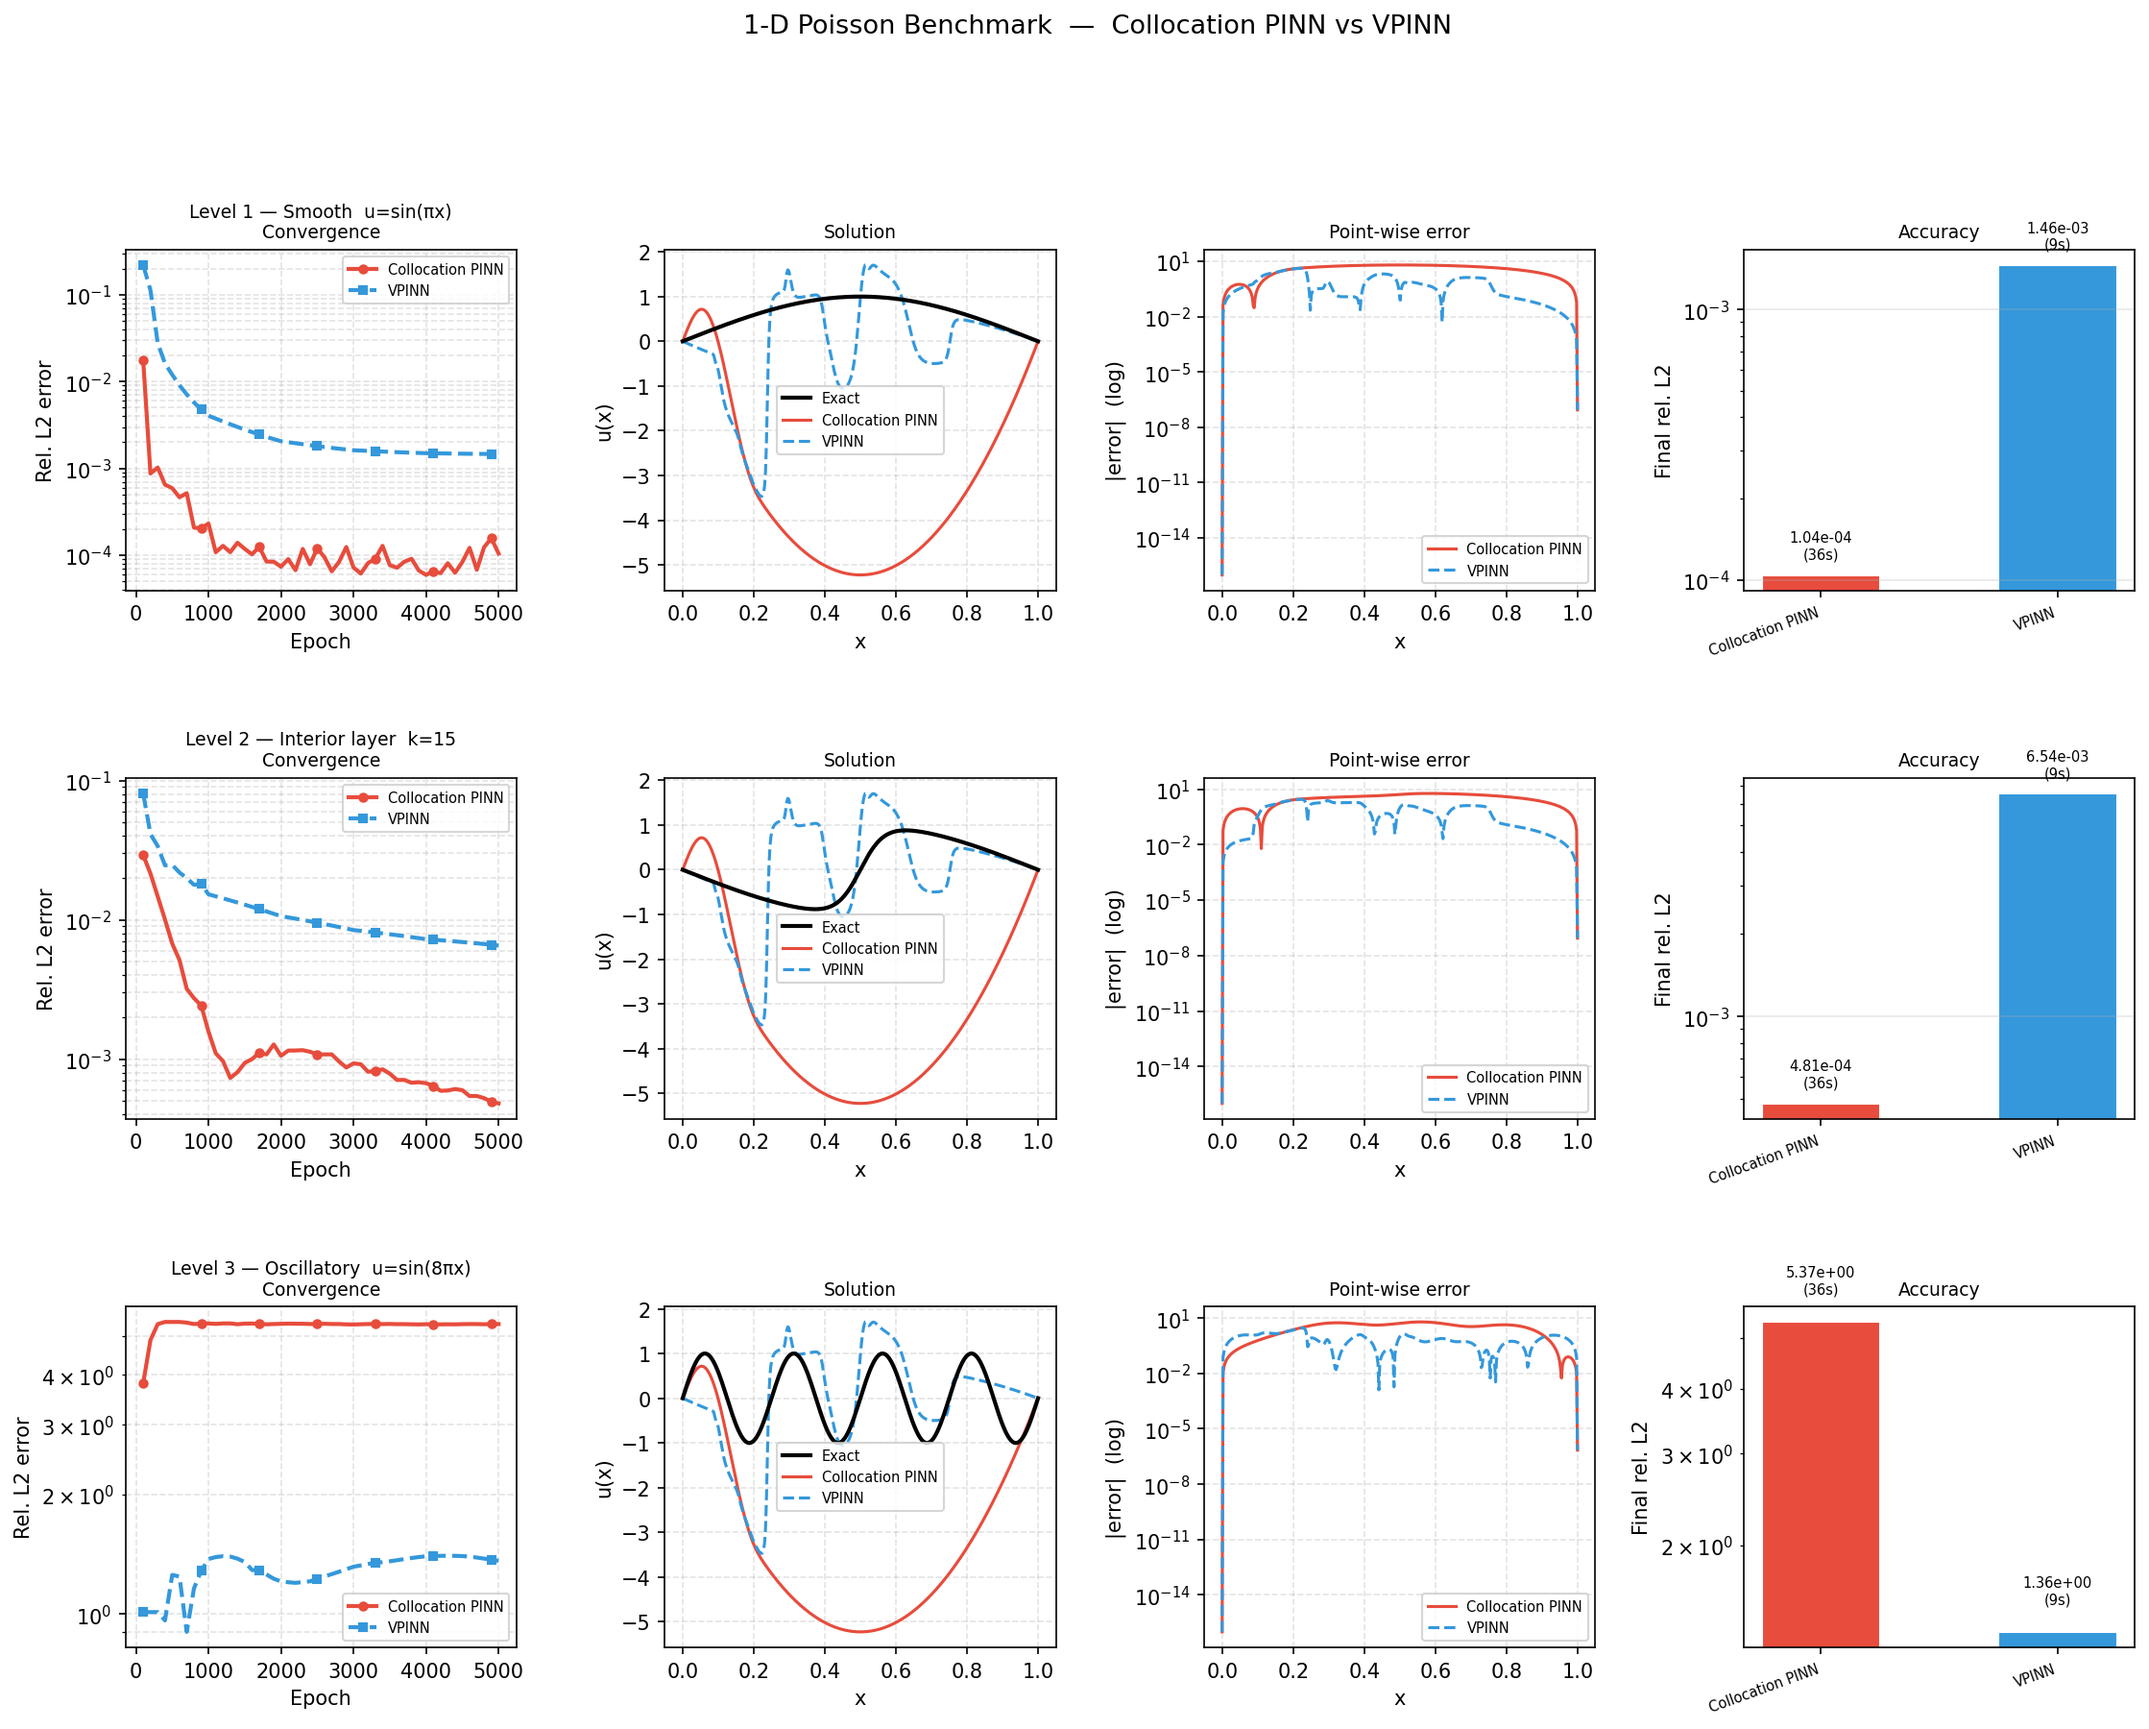
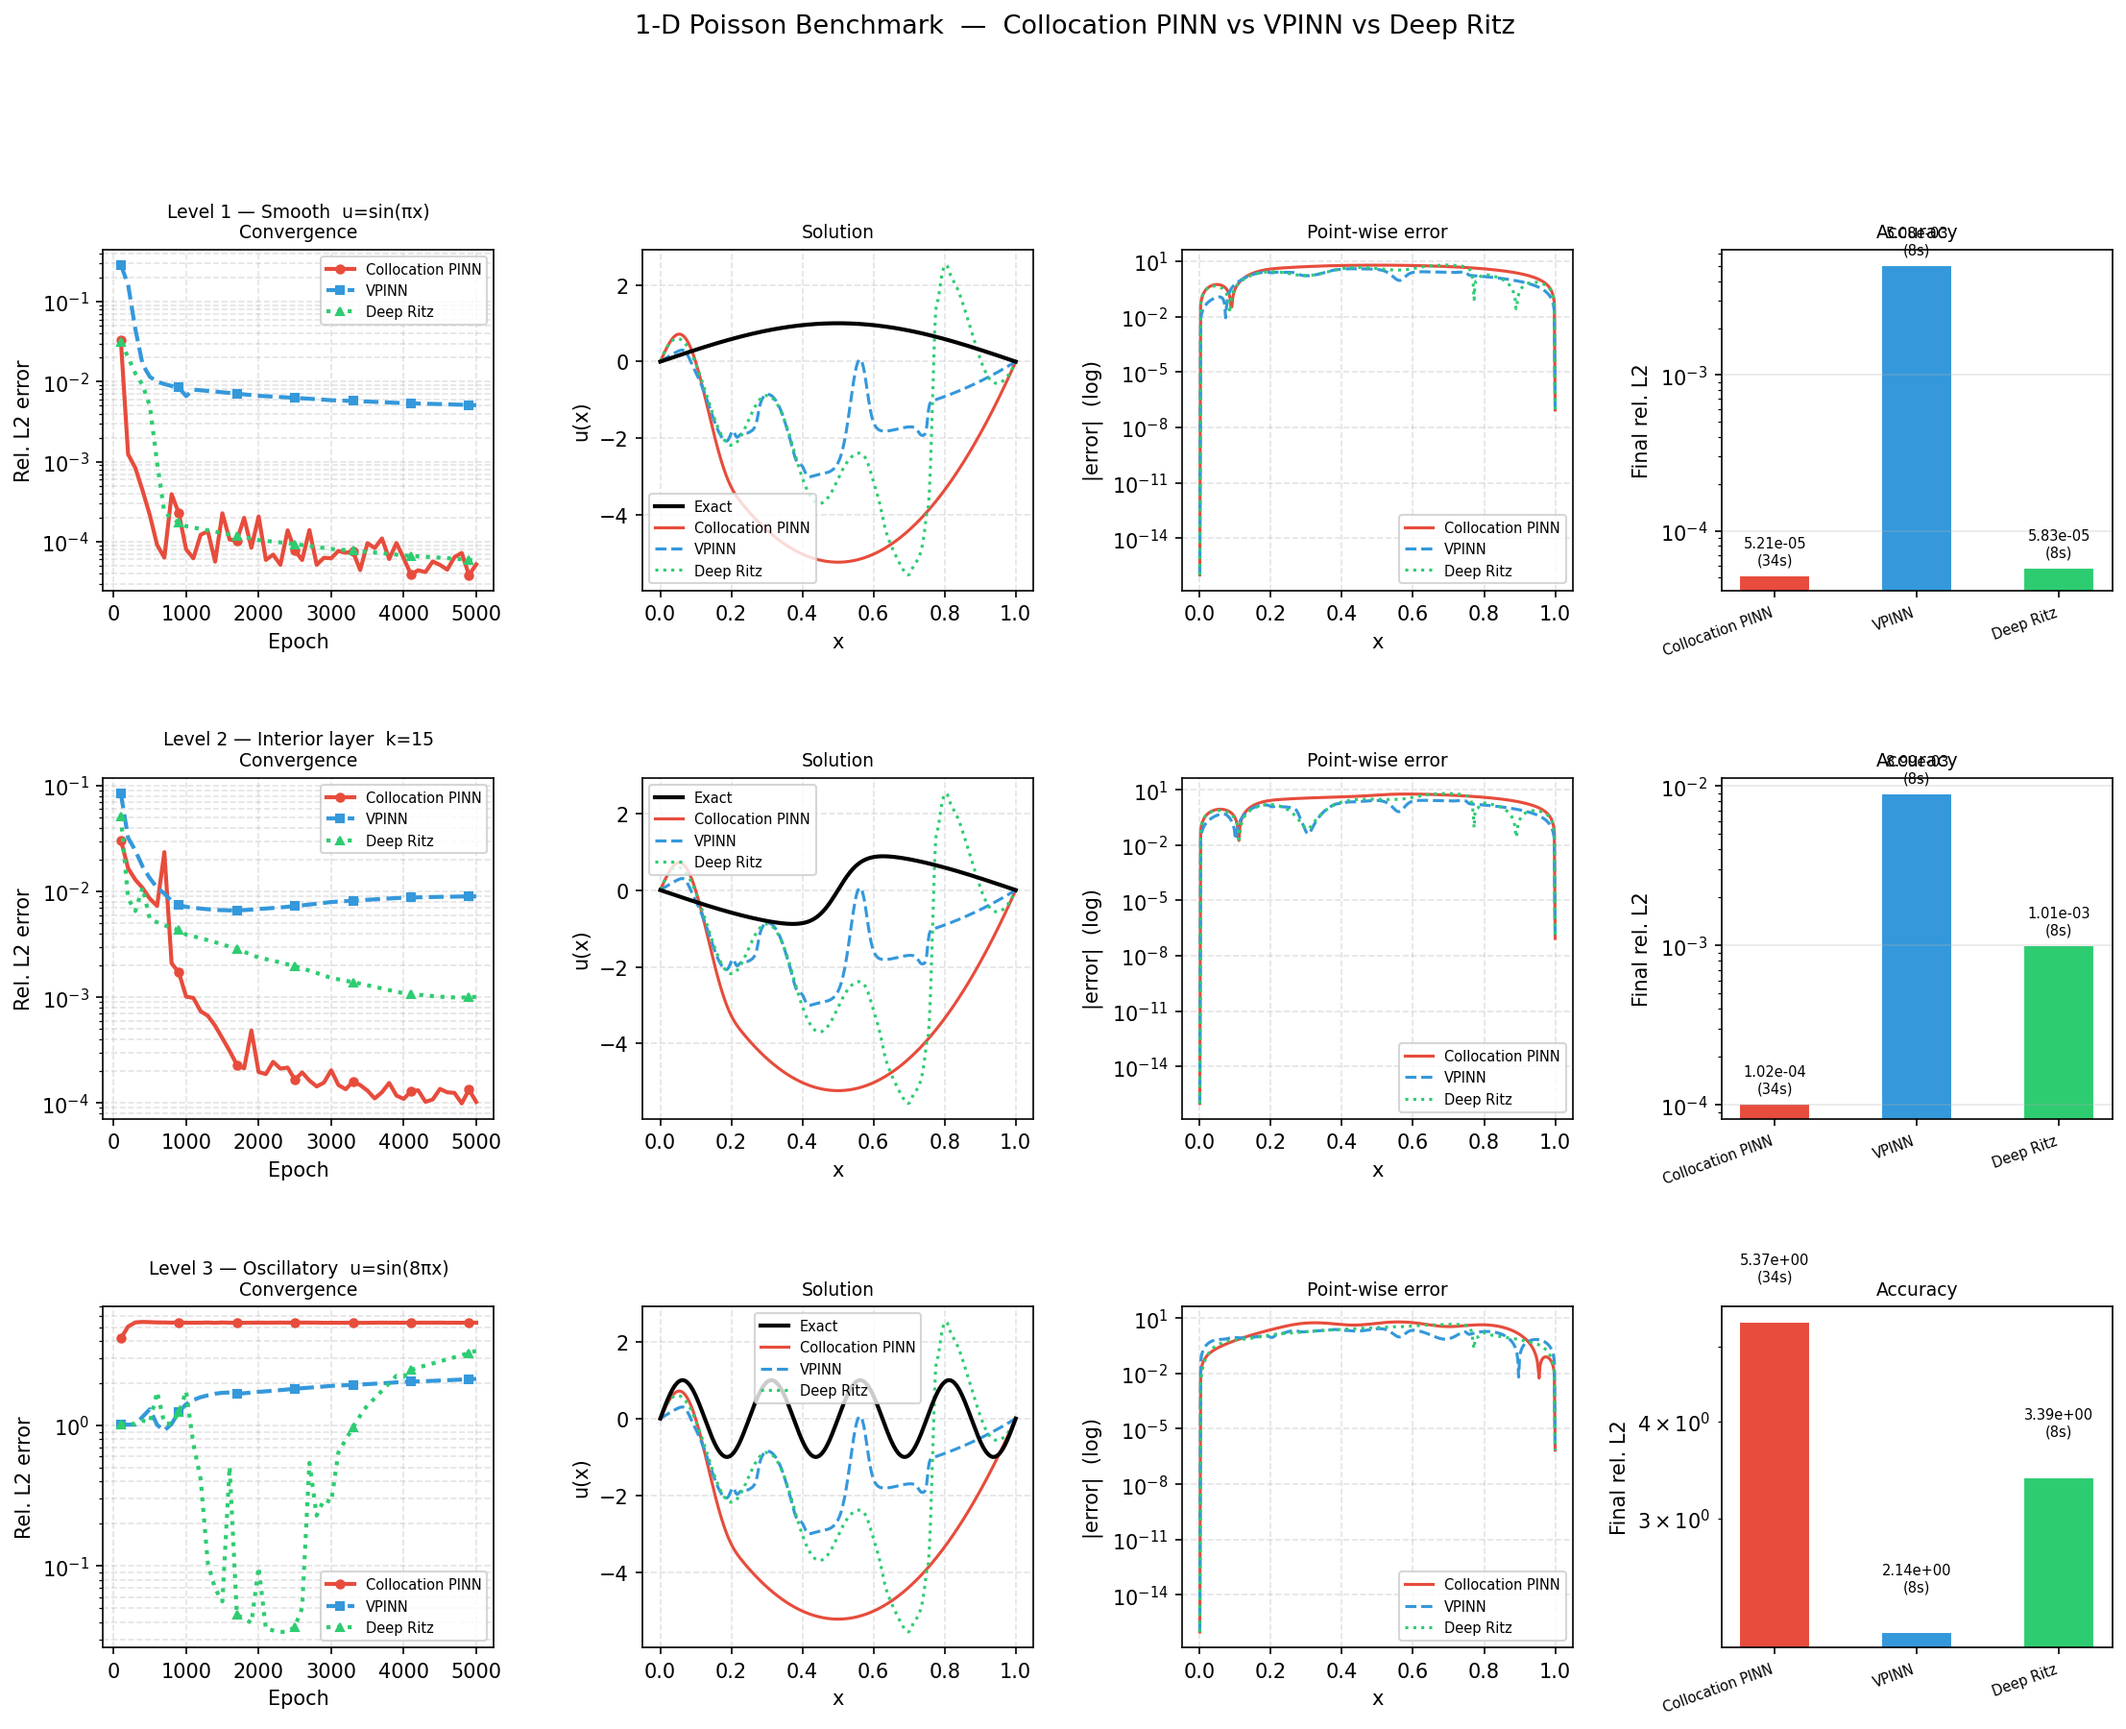
Add Deep Ritz solver and include it in 1D Poisson benchmark
Implements the energy minimisation formulation: E[u] = ½∫|∇u|²dx - ∫f·u dx.
Only first-order autograd needed (same cost as VPINN, 4× faster than collocation).
Uses Gauss-Legendre quadrature for integration; mollifier enforces Dirichlet BC.

Results (5000 epochs):
  Smooth:  Deep Ritz L2=5.8e-5 — matches Collocation (5.2e-5) within 12%, 4× faster
  Layer:   Deep Ritz L2=1.0e-3 — 9× better than VPINN, 10× slower than Collocation
  Oscillatory: all three methods fail (spectral bias); VPINN least wrong

Key finding: Deep Ritz achieves near-collocation accuracy at VPINN speed for smooth
and layer problems, making it the best accuracy/cost tradeoff for non-oscillatory PDEs.

https://claude.ai/code/session_011pScVsRRuE8kQ5UcZJCSPK

diff --git a/pde_solvers/solvers/deep_ritz.py b/pde_solvers/solvers/deep_ritz.py
@@ -1,0 +1,134 @@
+"""
+Deep Ritz Method
+================
+Minimises the energy functional of  -Δu = f  with zero Dirichlet BC:
+
+    E[u] = ½ ∫_Ω |∇u|² dx  -  ∫_Ω f·u dx
+
+The minimiser satisfies the Euler–Lagrange equation -Δu = f.
+Only first-order autograd is needed (same cost as VPINN).
+û = mollifier(x)·net(x) enforces the BC exactly.
+
+Integration: Gauss-Legendre quadrature.
+  1-D  domain [0,1]:      n_quad points mapped from [-1,1]
+  2-D  domain [-1,1]²:    tensor-product GL quadrature
+"""
+
+import time
+import numpy as np
+import torch
+from torch.autograd import Variable
+from numpy.polynomial.legendre import leggauss
+
+from ..network import FCNet
+
+
+class DeepRitz:
+
+    name = "Deep Ritz"
+
+    def __init__(self,
+                 n_quad:    int   = 50,
+                 activation: str  = 'tanh',
+                 lr:        float = 1e-3,
+                 step_size: int   = 1000,
+                 gamma:     float = 0.5):
+        self.n_quad    = n_quad
+        self.activation = activation
+        self.lr        = lr
+        self.step_size = step_size
+        self.gamma     = gamma
+        self.net       = None
+
+    # ── quadrature setup ─────────────────────────────────────────
+
+    def _setup_1d(self):
+        pts, wts = leggauss(self.n_quad)
+        xq = (pts + 1.0) / 2.0    # map [-1,1] → [0,1]
+        wq = wts / 2.0             # Jacobian of the mapping
+
+        self.x_quad = torch.tensor(xq[:, None], dtype=torch.float32)
+        self.w_quad = torch.tensor(wq,           dtype=torch.float32)
+
+    def _setup_2d(self):
+        pts, wts = leggauss(self.n_quad)
+        xx, yy   = np.meshgrid(pts, pts, indexing='ij')
+        wx, wy   = np.meshgrid(wts, wts, indexing='ij')
+
+        self.x_quad = torch.tensor(
+            np.stack([xx.flatten(), yy.flatten()], axis=1), dtype=torch.float32)
+        self.w_quad = torch.tensor((wx * wy).flatten(), dtype=torch.float32)
+
+    # ── public API ───────────────────────────────────────────────
+
+    def solve(self, problem, epochs: int = 5000,
+              log_every: int = 500) -> dict:
+
+        if problem.dim == 1:
+            self._setup_1d()
+        else:
+            self._setup_2d()
+
+        layers    = problem.default_layers()
+        net       = FCNet(layers, self.activation)
+        optimizer = torch.optim.Adam(net.parameters(), lr=self.lr)
+        scheduler = torch.optim.lr_scheduler.StepLR(
+            optimizer, step_size=self.step_size, gamma=self.gamma)
+
+        x_test, u_test = problem.test_grid()
+
+        with torch.no_grad():
+            f_quad = problem.source_f(self.x_quad).squeeze()   # (Nq,)
+
+        history = dict(epoch=[], loss_pde=[], l2_err=[], time=[])
+        t0 = time.time()
+
+        for epoch in range(1, epochs + 1):
+            net.train()
+
+            x_var = Variable(self.x_quad, requires_grad=True)
+            u_hat = problem.mollifier(x_var) * net(x_var)      # (Nq, 1)
+
+            u_grad = torch.autograd.grad(
+                u_hat, x_var, torch.ones_like(u_hat), create_graph=True)[0]
+
+            w = self.w_quad                                    # (Nq,)
+
+            if problem.dim == 1:
+                grad_sq = u_grad[:, 0] ** 2                   # (Nq,)
+            else:
+                grad_sq = u_grad[:, 0] ** 2 + u_grad[:, 1] ** 2
+
+            # E[u] = ½ ∫|∇u|² - ∫ f·u
+            energy_term = 0.5 * torch.sum(w * grad_sq)
+            source_term = torch.sum(w * f_quad * u_hat.squeeze())
+            loss = energy_term - source_term
+
+            optimizer.zero_grad()
+            loss.backward()
+            optimizer.step()
+            scheduler.step()
+
+            if epoch % 100 == 0:
+                net.eval()
+                with torch.no_grad():
+                    u_p = problem.mollifier(x_test) * net(x_test)
+                    l2  = problem.l2_rel(u_p, u_test)
+                history['epoch'].append(epoch)
+                history['loss_pde'].append(loss.item())
+                history['l2_err'].append(l2)
+                history['time'].append(time.time() - t0)
+
+                if epoch % log_every == 0:
+                    lr_now = optimizer.param_groups[0]['lr']
+                    print(f"    epoch {epoch:5d} | energy={loss.item():.3e}"
+                          f" | l2={l2:.4e} | lr={lr_now:.1e}")
+
+        self.net     = net
+        self.problem = problem
+        return history
+
+    def predict(self, x: torch.Tensor) -> torch.Tensor:
+        self.net.eval()
+        with torch.no_grad():
+            return self.problem.mollifier(x) * self.net(x)

diff --git a/pde_solvers/benchmark.py b/pde_solvers/benchmark.py
@@ -23,6 +23,7 @@ import matplotlib.gridspec as gridspec
 from .problems import SmoothPoisson1D, LayerPoisson1D, OscPoisson1D
 from .solvers.collocation import CollocationPINN
 from .solvers.vpinn import VPINN
+from .solvers.deep_ritz import DeepRitz
 
 # ── colour registry (extend as new solvers are added) ────────────
 _STYLE = {
@@ -135,7 +136,7 @@ def plot_1d_benchmark(all_results: dict, problems: list, solvers: list,
         ax.set_xticks(range(len(names)))
         ax.set_xticklabels(names, rotation=20, ha='right', fontsize=7)
 
-    fig.suptitle('1-D Poisson Benchmark  —  Collocation PINN vs VPINN',
+    fig.suptitle('1-D Poisson Benchmark  —  Collocation PINN vs VPINN vs Deep Ritz',
                  fontsize=13, y=1.01)
     plt.savefig(save_path, dpi=150, bbox_inches='tight')
     print(f"\nPlot saved → {save_path}")
@@ -192,6 +193,7 @@ def main():
     solvers = [
         CollocationPINN(),
         VPINN(),
+        DeepRitz(),
     ]
 
     print(f"\n{'#'*60}")
